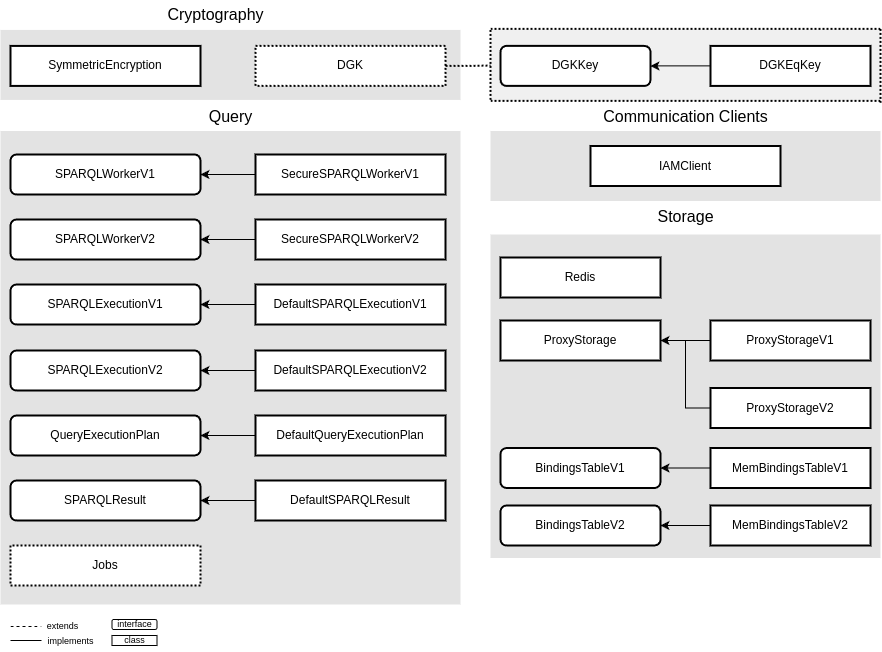
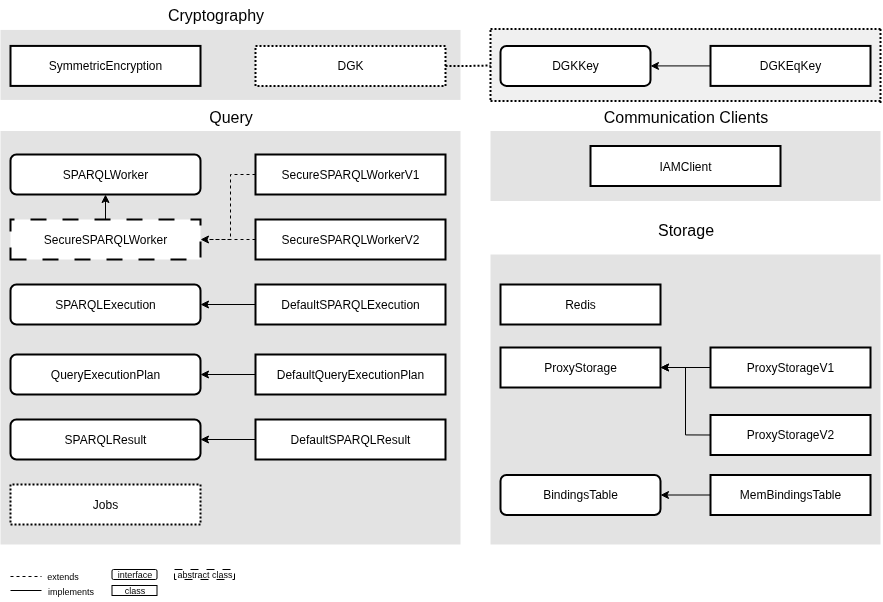
Updated diagram for proxy architecture, reviewing chapter 4

diff --git a/Dissertation/Chapters/chapter3/3-solution.tex b/Dissertation/Chapters/chapter3/3-solution.tex
@@ -629,24 +629,24 @@ After the decryption of the results, any last modifications are executed (e.g. s
 \subsection{The M/M Setting}
 \label{ch3:sec:solution-definition:mm-setting}
 
-So far we have specified the building blocks for the secure evaluation of \gls{SPARQL} queries, but \gls{SEnTriS} is not uniquely a query evaluation protocol. It is also a triplestore management and sharing protocol: users can create, manage and share encrypted and non-encrypted triplestores with varying degrees of access.
+So far we have specified the building blocks for the secure evaluation of \gls{SPARQL} queries, but \gls{SEnTriS} is not solely a query evaluation protocol. It is also a triplestore management and sharing protocol: users can create, manage and share encrypted triplestores with varying degrees of access.
 
-To adapt the previous protocols to the \gls{M/M} setting we will require an identity and access management protocol, with secret sharing between authorized users.
+To adapt the previous protocols to the \gls{M/M} setting we will introduce an identity and access management protocol, with secret sharing between authorized users.
 
-Authentication will be validated with \emph{sessions}, management of access to triplestores will be achieved with the definition of triplestore \glsxtrlong{ACL}s and strict enforcement of permissions.
-Furthermore, we will rely on a lock-based access strategy, and \emph{ephemeral access tokens}, to ensure that concurrent access is done in a controlled and safe manner.
+Authentication is validated with \emph{sessions}, management of access to triplestores is supported with the definition of triplestore \glsxtrlong{ACL}s and strict enforcement of permissions.
+Furthermore, to ensure that concurrent access is done in a controlled and safe manner, we rely on a lock-based access strategy, and \emph{ephemeral access tokens}.
 
-Finally, roles will grant different execution rights to users, which restrict the type of operations that they can execute within the system. Users can have the \emph{ADMIN}, \emph{PRIVILEGED} and \emph{BASIC} roles. For ease of communication from now onwards, we will refer to a user with each role, respectively, as \emph{admin}, \emph{privileged} or \emph{basic} user.
+Finally, roles grant different execution rights to users, which restrict the type of operations that they can execute within the system. Users may have the \emph{ADMIN}, \emph{PRIVILEGED} and \emph{BASIC} roles. For ease of communication from now onwards, we will refer to a user with each role, respectively, as \emph{admin}, \emph{privileged} or \emph{basic} user.
 
-\emph{Basic} users will only be able to query existing triplestores, if they have been given access to do so. They can request \emph{read} or \emph{write} access to existing triplestores.
+\emph{Basic} users are allowed query existing triplestores, if they have been given access to do so. They can request \emph{read} or \emph{write} access to existing triplestores.
 
-\emph{Privileged} users will have all the permissions of a \emph{basic} user. Additionally, they will be able to create new triplestores, grant or revoke read/write access to their triplestores, transfer ownership to other users and process access requests targeting triplestores they own.
+\emph{Privileged} users have all the permissions of a \emph{basic} user. Additionally, they are be able to create new triplestores, grant or revoke read/write access to their triplestores, transfer ownership to other users and process access requests targeting triplestores they own.
 
-\emph{Admin} users will possess all the permissions of a \emph{privileged} user, but they will also be able to manage any triplestore and process role change requests.
+\emph{Admin} users possess all the permissions of a \emph{privileged} user, but they are also able to manage any triplestore and process role change requests.
 
 
 \begin{definition}[\textbf{Identity and Access Management Protocol with Secret Sharing}]\label{ch3:definition:iam-protocol}
-    Let IAM be an identity and access management protocol between authenticated users, where temporary access to triplestores is granted using ephemeral access tokens. It is a tuple of $\textrm{IAM} = (Init, \; CreateSession, \; SaveUser, \; DeleteUser, \; IssueGrantRoleRequest, \; GetPend\textrm{-}\linebreak ingRoleRequests, \; ProcessRoleRequest, \; CreateTriplestoreAccessList, \; GetTriplestores, \linebreak GetUsersWithAccess, \; ChangeTriplestoreOwner, \; DeleteTriplestoreAccessList, \; Grant\textrm{-}\linebreak TriplestoreAccess, \; RevokeTriplestoreAccess, \; IssueAccessRequest, \; GetPendingAccessRe\textrm{-}\linebreak quests, \; ProcessAccessRequest, \; CreateAccessToken, \; DeleteAccessToken, \; CheckReadAc\textrm{-}\linebreak cess, \; CheckWriteAccess, \; CheckOwnerAccess, \; CheckI\textrm{\emph{f}}Active, \; AcquireTriplestoreLock, \linebreak ReleaseTriplestoreLock, \; Auth, \; RegisterUser, \; UnregisterUser, \; IssueUpgradeRequest, \linebreak IssueDowngradeRequest, \; ListPendingRoleRequests, \; IssueRoleDecision, \; ListTriple\textrm{-}\linebreak stores, \; UpdateTriplestoreOwner, \; GrantAccess, \; RevokeAccess, \; RequestAccess, \; ListPend\textrm{-}\linebreak ingAccessRequests, \; IssueAccessDecision, \; ListUsersWithAccess, \; CreateTriplestore, \linebreak DeleteTriplestore, \; SaveSecrets, \; DeleteSecrets, \; GetSecrets, \; SSE\textrm{-}TP.Setup)$ of 46 algorithms where:
+    Let IAM be an identity and access management protocol between authenticated users, where temporary access to triplestores is granted using ephemeral access tokens. It is a tuple $\textrm{IAM} = (Init, \; CreateSession, \; SaveUser, \; DeleteUser, \; IssueGrantRoleRequest, \; GetPend\textrm{-}\linebreak ingRoleRequests, \; ProcessRoleRequest, \; CreateTriplestoreAccessList, \; GetTriplestores, \linebreak GetUsersWithAccess, \; ChangeTriplestoreOwner, \; DeleteTriplestoreAccessList, \; Grant\textrm{-}\linebreak TriplestoreAccess, \; RevokeTriplestoreAccess, \; IssueAccessRequest, \; GetPendingAccessRe\textrm{-}\linebreak quests, \; ProcessAccessRequest, \; CreateAccessToken, \; DeleteAccessToken, \; CheckReadAc\textrm{-}\linebreak cess, \; CheckWriteAccess, \; CheckOwnerAccess, \; CheckI\textrm{\emph{f}}Active, \; AcquireTriplestoreLock, \linebreak ReleaseTriplestoreLock, \; Auth, \; RegisterUser, \; UnregisterUser, \; IssueUpgradeRequest, \linebreak IssueDowngradeRequest, \; ListPendingRoleRequests, \; IssueRoleDecision, \; ListTriple\textrm{-}\linebreak stores, \; UpdateTriplestoreOwner, \; GrantAccess, \; RevokeAccess, \; RequestAccess, \; ListPend\textrm{-}\linebreak ingAccessRequests, \; IssueAccessDecision, \; ListUsersWithAccess, \; CreateTriplestore, \linebreak DeleteTriplestore, \; SaveSecrets, \; DeleteSecrets, \; GetSecrets, \; SSE\textrm{-}TP.Setup)$ of 46 algorithms where:
     \begin{itemize}
         \item $\{\textrm{SUCCESS}, \bot\} \leftarrow \mathbf{Init()}$: initializes the protocol by registering a default admin user. Outputs $\textrm{SUCCESS}$ if the user is created and registered, $\bot$ otherwise.
 
@@ -751,7 +751,7 @@ Finally, roles will grant different execution rights to users, which restrict th
 
 Authentication is the process where we verify the identity of a user. We do so, by checking that the provided credentials, during login, match the ones saved within our system. To avoid having to verify this condition in every request sent by the user, we use \emph{sessions}. The session is generated upon a successful login request. A valid session will prove the identity of the user sending the requests. In \gls{SEnTriS}, an authenticated user needs to be valid (has been registered within the system) and hold an active session.
 
-The login request is initiated by the client component, which will redirect the provided credentials to the IAM provider, responsible for the emission of a cookie, holding the session data. In the IAM provider we store the user credentials, following \gls{NIST} best practices \autocite{Nist-dy}. The passwords are stored using a suitable one-way key derivation function (e.g. \gls{PBKDF2}). Listings \ref{iam-client-auth} and \ref{iam-provider-auth} provide the authentication logic for the client and IAM provider components respectively. Listing \ref{iam-provider-storage-engine-users} shows the IAM provider storage engine logic for storing user data. We will assume that the storage engine is atomic.
+The login request is initiated by the client component, which will redirect the provided credentials to the IAM provider, responsible for the emission of a cookie, holding the session data. In the IAM provider we store the user credentials, following \gls{NIST} best practices \autocite{Nist-dy}. Passwords are stored using \gls{PBKDF2}, a suitable one-way key derivation function. Listings \ref{iam-client-auth} and \ref{iam-provider-auth} provide the authentication logic for the client and IAM provider components, respectively. Listing \ref{iam-provider-storage-engine-users} shows the IAM provider storage engine logic for user data storage. We will assume that the storage engine is atomic.
 
 %\lstinputlisting[caption={Authentication in Client}, label={iam-client-auth}]{Code/chapter3/iam/iam-client-auth.tex}
 
@@ -765,11 +765,11 @@ Concurrent operations can target users or triplestores. The correctness of concu
 
 \emph{Locks} are enough for requests targeting users, because the execution context is always the same. Operations can only be executed by users, against themselves, or by \emph{admin} users, and the origin of the requests is always scoped to a \emph{Client} component.
 
-Operations against triplestores are more complex. The query evaluation pipeline is distributed between different components. As such, whenever the execution context changes we must verify if the author of the request has sufficient permissions to execute the operations being requested.
+Operations against triplestores are more complex. The query evaluation pipeline is distributed between different components. As such, whenever the execution context changes we must verify if the author of the request has sufficient permissions to execute the operations being issued.
 
-To fulfill such requirements, every request will have an authorization header, following the bearer authentication scheme, containing an \emph{access token}. Permission checks are executed, by issuing a verification request, with the token, to a verifier component. In the case of \gls{SEnTriS} it will be the \gls{IAM} provider. The \gls{IAM} provider extracts the token from the authorization header, verifies the validity of the token, and if its associated permissions are correct.
+To fulfill such requirements, every request will have an authorization header, following the bearer authentication scheme, containing an \emph{access token}. Permission checks are executed, by issuing a verification request, with the token, to a verifier component. In the case of \gls{SEnTriS}, this component is the \gls{IAM} provider. The \gls{IAM} provider extracts the token from the authorization header, verifies the validity of the token, and if its associated permissions are correct.
 
-Queries that contain write predicates, will require that their target remains \emph{locked}, during their evaluation. As such, an \emph{access token} can be associated with a \emph{lock}. The targeted triplestore will remain in a \emph{locked} state until its \emph{access token} is deleted or the \emph{lock} expires.
+Queries that contain write predicates, require that their target remains \emph{locked}, during evaluation. As such, an \emph{access token} can be associated with a \emph{lock}. The targeted triplestore will remain in a \emph{locked} state until its \emph{access token} is deleted or the \emph{lock} expires.
 
 The emission of locks and ephemeral access tokens is also scoped to the IAM provider. The creation and management of locks is scoped to a \emph{locks client}. This abstraction functions like an atomic storage engine as shown in Listing \ref{iam-provider-locks-client}. Listing \ref{iam-provider-permission-checks} provides the logic for the emission of access tokens, triplestore locking and permission verification. Finally, Listing \ref{iam-provider-storage-engine-acl} shows the underlying storage engine for storing and modifying \gls{ACL}s and access tokens.
 

diff --git a/Dissertation/Chapters/chapter4/4-implementation.tex b/Dissertation/Chapters/chapter4/4-implementation.tex
@@ -22,12 +22,12 @@ In this section, we will start by presenting the chosen technology stack and its
 
 The two most popular and mature semantic web development frameworks are Jena \autocite{The_Apache_Software_Foundation_undated-wk} and RDF4J \autocite{Eclipse-RDF4J-developersUnknown-uu}. Both are implemented in Java, provide similar features and are in active development. We opted to use the Jena framework because it is the most popular of the two.
 
-Parsing utilities and the creation of ontological models worked as expected. However, one limitation that we found was the high coupling and punctual lack of serialization support for a few classes. Furthermore, the query evaluation procedure was highly dependent on the storage solutions specific by the framework. This lack of flexibility made it very complex to extend, or modify, any of the classes and procedures. As such, we implemented our custom data structures and query evaluation procedure (which were defined in the previous chapter). 
+Parsing utilities and the creation of ontological models worked as expected. However, one limitation that we found was the high coupling and punctual lack of serialization support for a few classes. Furthermore, the query evaluation procedure was highly dependent on the storage solutions specific by the framework. This lack of flexibility made it very complex to extend, or modify, any of the classes and procedures. As such, we implemented our custom data structures and query evaluation procedure. 
 
-\paragraph{Cryptography Libraries} For the cryptography operations we utilized a variety of well known libraries. We choose the Bouncy Castle library \autocite{BouncyCastle2023-og} for the key derivation operations and Lazysodium \autocite{Lazysodium-vo}, a Java wrapper of the Libsodium library \autocite{Libsodium-hk}, because it provides support for XChaCha20-Poly1305 encryption \autocite{NirUnknown-mk, XChaCha20-ur}. The \gls{DGK} encryption library used is an adaptation of the one developed by Andrew Quijano \autocite{DGKLibrary-ln}, where we removed the unused methods and implemented the abstractions used in the \gls{SEnTriS} protocol (e.g. equality check operation).
+\paragraph{Cryptography Libraries} For the cryptography operations we utilized a variety of well known libraries. We choose the Bouncy Castle library \autocite{BouncyCastle2023-og} for the key derivation operations and Lazysodium \autocite{Lazysodium-vo}, a Java wrapper of the Libsodium library \autocite{Libsodium-hk}, because it provides support for XChaCha20-Poly1305 encryption \autocite{NirUnknown-mk, XChaCha20-ur}. The \gls{DGK} encryption library used is an adaptation of the one developed by Andrew Quijano \autocite{DGKLibrary-ln}, where we removed the unused methods and implemented abstractions used in the \gls{SEnTriS} protocol.
 For \gls{SSL} certificate generation and management we used the OpenSSL library \autocite{OpenSSL-jb}.
 
-\paragraph{Storage Engine} Persistent data structures in \gls{SEnTriS} are all key value stores. For simplicity and ease of development we decided to use Redis as our storage engine, with persistence configured in \gls{AOF} mode (where every write operation received by the server is logged and can be re-executed at startup) \autocite{Redis-xq, Redis-rq}.
+\paragraph{Storage Engine} Persistent data structures in \gls{SEnTriS} are all key value stores. For simplicity and ease of development we decided to use Redis as our storage engine. Altough we could have configured Redis with persistence enabled, we decided not to do it \autocite{Redis-xq, Redis-rq}. This choice was deliberate, the correctness of the protocol is not dependent on persistent storage. Persistence was out of scope of this thesis, and will be proposed as future work.
 
 To guarantee atomicity in the creation of locks, updates and full deletions of triplestores, we implemented these operations using Lua scripts \autocite{Lua-gq}, which are executed directly in the Redis servers. This approach ensured that the logic was either fully executed server side, or not executed at all. 
 
@@ -53,8 +53,7 @@ We separate the component logic between two layers, the presentation and applica
 
 \section{Component Architecture \& Implementation Details}
 
-In this section, we will dive into the \gls{SEnTriS} component's implementation. For each of the components, we will describe their architecture and provide explanation about relevant implementation details. We will focus on providing mappings between the implementation and formal abstractions and algorithms, rather than describing and explaining code. The reasoning behind this approach, is that the code implementation follows as much as possible the formal algorithms, for which we have provided extensive listings.
-   
+In this section, we will dive into the implementation the \gls{SEnTriS} components. For each one, we will describe their architecture and provide explanation about relevant implementation details. We will focus on providing mappings between the implementation and formal abstractions and algorithms, rather than describing and explaining code. The reasoning behind this approach, is that the code implementation follows closely the formal algorithms, for which we have provided extensive pseudocode listings.
 
 \subsection{Client}
 
@@ -67,13 +66,13 @@ The first two expose the entry points for the \gls{IAM} algorithms, whereas the 
 
 More specifically, the \emph{UserAPI} contains the endpoints related to authentication and user  management. The \emph{TriplestoreAPI} is composed by the endpoints related to triplestore access management and sharing. Additionally, it also exposes endpoints used to querying plaintext triplestores, following the SPARQL-EVAL protocol. This functionally has been used for testing and validation of the query results obtained from \gls{SEnTriS}. Finally, the \emph{EncryptedTriplestoreAPI} contains the endpoints which allow an authenticated user to create and delete encrypted triplestores, upload, modify or delete their data, and execute encrypted \gls{SPARQL} queries, with or without reasoning.
 
-A more direct mapping of each \gls{API} to the formal algorithms from the \gls{SEnTriS} protocol is the following:
+We will now provide a mapping between the \gls{API}s and the formal algorithms from the \gls{SEnTriS} protocol:
 
 \begin{itemize}
     \item \textbf{UserAPI}: exposes the endpoints for the IAM.$Auth$, IAM.$RegisterUser$, IAM.$Unreg$\textrm{-}\linebreak$isterUser$, IAM.$IssueUpgradeRequest$, IAM.$IssueDowngradeRequest$, IAM.$List$\textrm{-}\linebreak$PendingRoleRequests$, IAM.$IssueRoleDecision$ algorithms.
     
     \item \textbf{TriplestoreAPI}: exposes endpoints for the IAM.$ListTriplestores$, IAM.$Update$\textrm{-}\linebreak$TriplestoreOwner$, IAM.$GrantAccess$, IAM.$RevokeAccess$, IAM.$RequestAccess$, IAM\textrm{-}.$ListPendingAccessRequests$, IAM.$IssueAccessDecision$, and IAM.$ListUsersWithAc$\textrm{-}$cess$ algorithms.
-    z
+    
     \item \textbf{EncryptedTriplestoreAPI}: exposes endpoints for the IAM.$CreateTriplestore$, IAM\textrm{-}\linebreak.$DeleteTriplestore$, SEnTriS.$UploadTriples$, SEnTriS.$DeleteTriplestore$, SEnTriS\textrm{-}\linebreak.$SearchSchema$, and SEnTriS.$ExecuteSPARQLQuery$ algorithms.
 
 \end{itemize}
@@ -87,11 +86,11 @@ A more direct mapping of each \gls{API} to the formal algorithms from the \gls{S
 
 \paragraph*{Application Layer} Figure \ref{fig:client-application-layer} shows the Client application layer, where we implement all the internal components and libraries. These are grouped into four domains: \emph{Communication Clients}; \emph{Cryptography}; \emph{Query} and \emph{Ontologies}.
 
-Under the \emph{Communication Clients} domain, we implement the clients that abstract the internal communication between \gls{SEnTriS} components. Compared to the other three components, which have a single \gls{API} each, the Triplestore component exposes three. One is used for querying plaintext triplestores (during testing) and the other two for querying encrypted triplestores (following the two different versions of the \gls{SEnTriS} protocol, respectively). This is the reason why we have three Triplestore clients and one \gls{IAM}, one Vault, and one Proxy client.
+In the \emph{Communication Clients} domain, we implement the clients that abstract the internal communication between \gls{SEnTriS} components. Compared to the other three components, which have a single \gls{API} each, the Triplestore component exposes three. One is used for querying plaintext triplestores (during testing) and the other two for querying encrypted triplestores (one per version of the \gls{SEnTriS} protocol, respectively). Consequently, we have three Triplestore clients and one \gls{IAM}, one Vault, and one Proxy client.
 
-In the \emph{Cryptography} domain, we implement the encryption libraries and encryption schemes. The \emph{SymmetricEncryption} library is where we group all auxiliary operations related to symmetric encryption. The \emph{DGK} library is an adaption of a public\footnote{Source code shared at https://github.com/AndrewQuijano/Homomorphic Encryption} solution \autocite{Quijano2019-au} where we introduce the abstractions used by the \gls{SEnTriS} protocol (e.g. the \emph{equality key}). The two \emph{EncryptionSchemes} implement the \emph{SSE-TP} protocol variations. The \emph{EncryptionSchemeV1} is used in \gls{SEnTriS} V1, whereas the \emph{EncryptionSchemeV2} is used in \gls{SEnTriS} V2.
+In the \emph{Cryptography} domain, we implement the encryption libraries and encryption schemes. The \emph{SymmetricEncryption} library is where we group all auxiliary operations related to symmetric encryption. The \emph{DGK} library is an adaption of a public\footnote{Source code shared at https://github.com/AndrewQuijano/Homomorphic Encryption} solution \autocite{Quijano2019-au} where we introduce the abstractions used by the \gls{SEnTriS} protocol (e.g. the \emph{equality key}, part of the private key shared with the Proxy, during query evaluation). The two \emph{EncryptionSchemes} implement the \emph{SSE-TP} protocol variations. The \emph{EncryptionSchemeV1} is used in \gls{SEnTriS} V1, whereas the \emph{EncryptionSchemeV2} is used in \gls{SEnTriS} V2.
 
-Under the \emph{Query} domain we, implement all logical components scoped to query parsing and planning: the query engine, plan, result, jobs and planners. The \emph{DefaultSPARQLPlanner} is used for testing and generates plaintext query plans, to be executed against plaintext triplestores. The \emph{SecureSPARQLPlanner} generates query plans following the \gls{SEnTriS} protocol, to be executed against encrypted triplestores.
+In the \emph{Query} domain we, implement all logical components scoped to query parsing and planning: the query engine, plan, result, jobs and planners. The \emph{DefaultSPARQLPlanner} is used for testing and generates plaintext query plans, to be executed against plaintext triplestores. The \emph{SecureSPARQLPlanner} generates query plans following the \gls{SEnTriS} protocol, to be executed against encrypted triplestores.
 
 Finally, in the \emph{Ontologies} domain, we implement the ontology abstractions, used for query rewriting. The \emph{DefaultOntology} is used by the \emph{DefaultSPARQLPlanner}, whereas the \emph{SecureOntology} is used by the \emph{SecureSPARQLPlanner}.
 
@@ -102,13 +101,13 @@ Finally, in the \emph{Ontologies} domain, we implement the ontology abstractions
     \label{fig:client-application-layer}
 \end{figure}
 
-\subsection{Triplestore} This component stores the triplestores' encrypted data. Furthermore, it supports read and atomic write operations over the stored data. 
+\subsection{Triplestore} This component stores the triplestores' encrypted data. Furthermore, it supports read and atomic write operations against the stored data. 
 
 \paragraph*{Presentation Layer} Figure \ref{fig:triplestore-presentation-layer} shows the triplestore presentation layer. It exposes two different \gls{API}s: the \emph{Triplestore API}; and the \emph{EncryptedTriplestoreAPI}.
 
 The \emph{Triplestore API} is used only for testing. It has endpoints that allow an authenticated user to upload, delete and execute \gls{SPARQL} queries against plaintext triplestores, following the SPARQL-EVAL protocol.
 
-The \emph{EncryptedTriplestoreAPI} contains the endpoints for the SEnTriS.$PrepareSearch, Search$, SEnTriS.$PrepareUpload$, SEnTriS.$PrepareDelete$, SEnTriS.$Update$, SEnTriS.$DeleteAll$ algorithms. 
+The \emph{EncryptedTriplestoreAPI} contains the endpoints for the SEnTriS.$PrepareSearch$, SEnTriS.$Search$, SEnTriS.$PrepareUpload$, SEnTriS.$PrepareDelete$, SEnTriS.$Update$, SEnTriS.$DeleteAll$ algorithms. 
 
 \begin{figure}[H]
     \centering